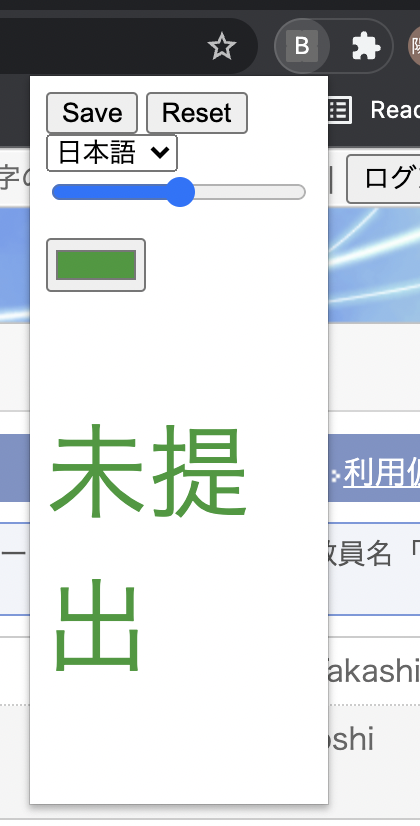
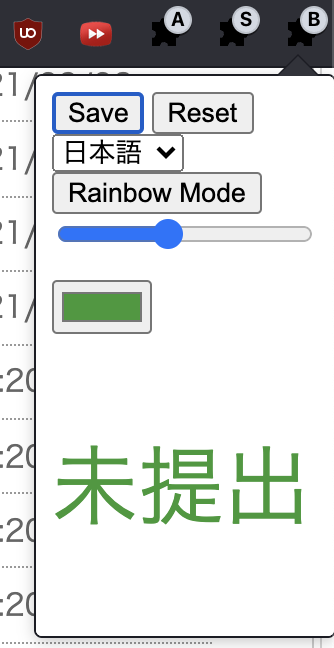
added rainbow mode to readme

diff --git a/README.md b/README.md
@@ -34,6 +34,8 @@ BigBigNotSubmittedをピン留めした後、
 プレビューも下に表示されます (日本語/Englishはプレビュー用)  
 設定後Saveボタンをクリックし画面更新すれば反映されます。Resetボタンを押せば元(15px, #339933)に戻ります  
 ![c](images/photo_03.png)  
+また、Rainbow Modeを押せば、未提出が七色に光ります  
+![c](images/photo_10.png)  
 
 
 ## サーバー負荷について
